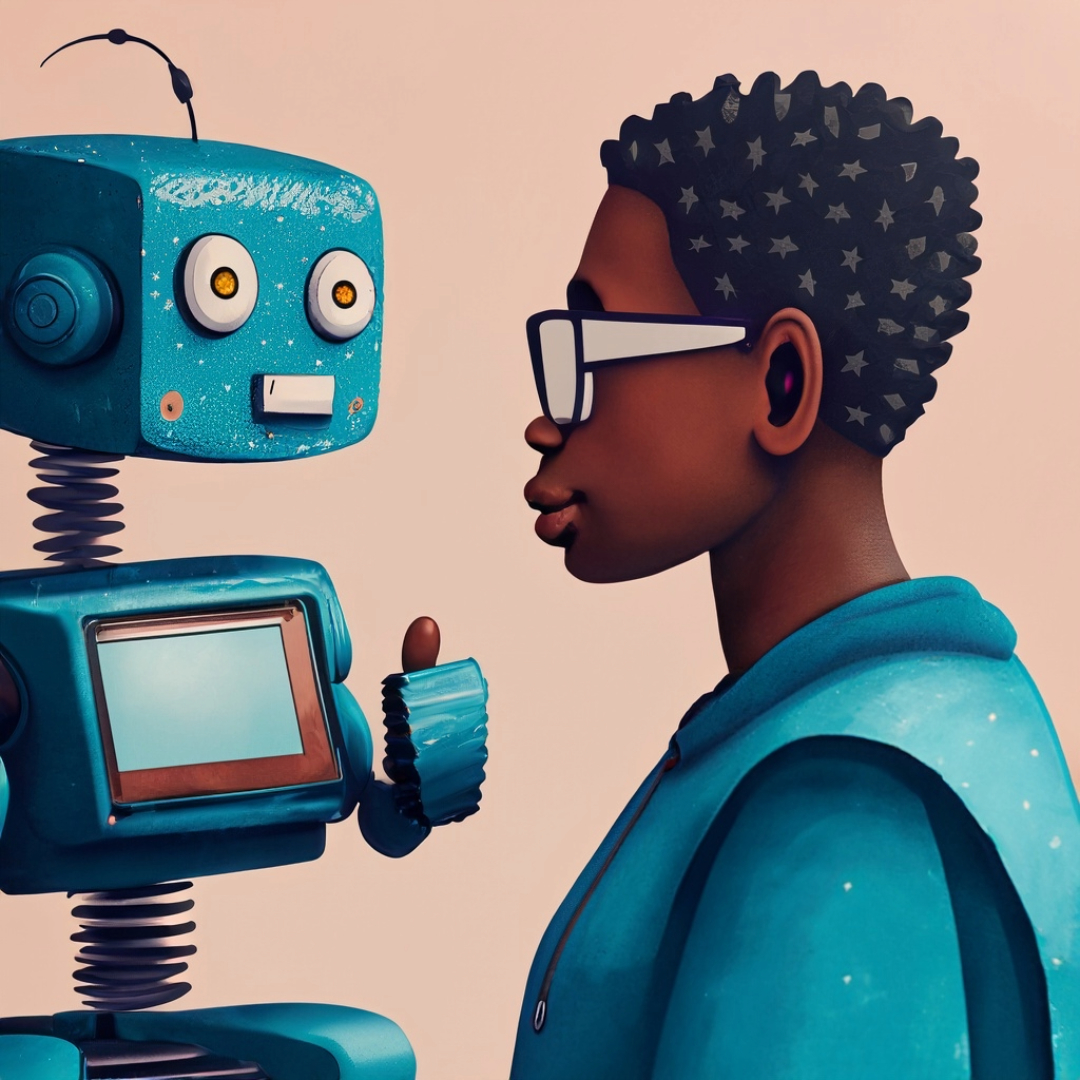
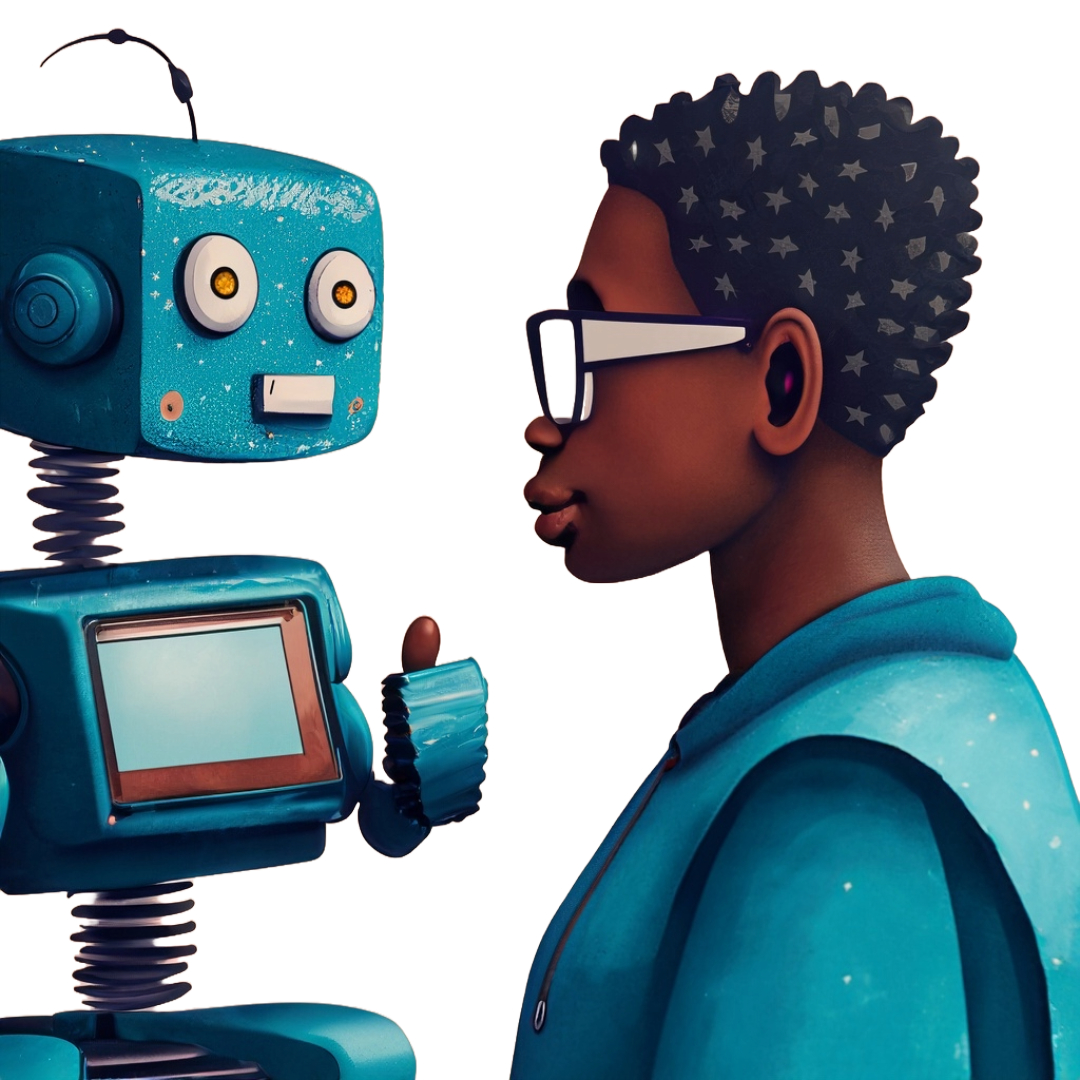
added transparent image

diff --git a/src/pages/Home/index.tsx b/src/pages/Home/index.tsx
@@ -22,7 +22,7 @@ const Home = () => {
         title={IntroContent.title}
         content={IntroContent.text}
         button={IntroContent.button}
-        icon="homepage.jpeg"
+        icon="homepage.png"
         id="intro"
       />
 {/*       <MiddleBlock
